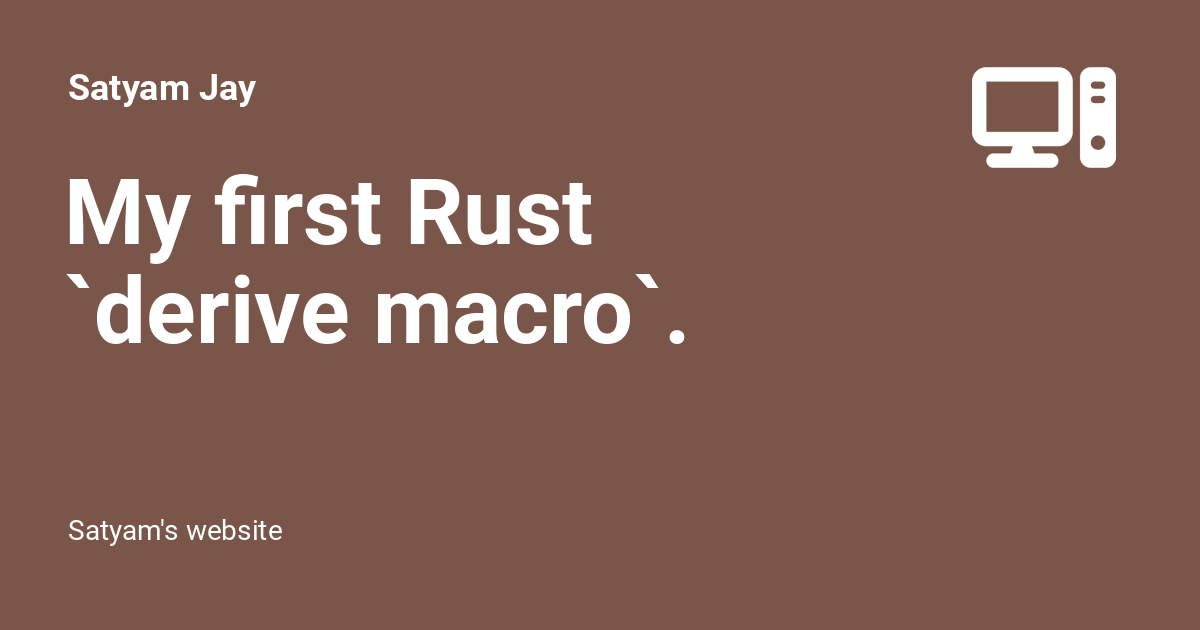
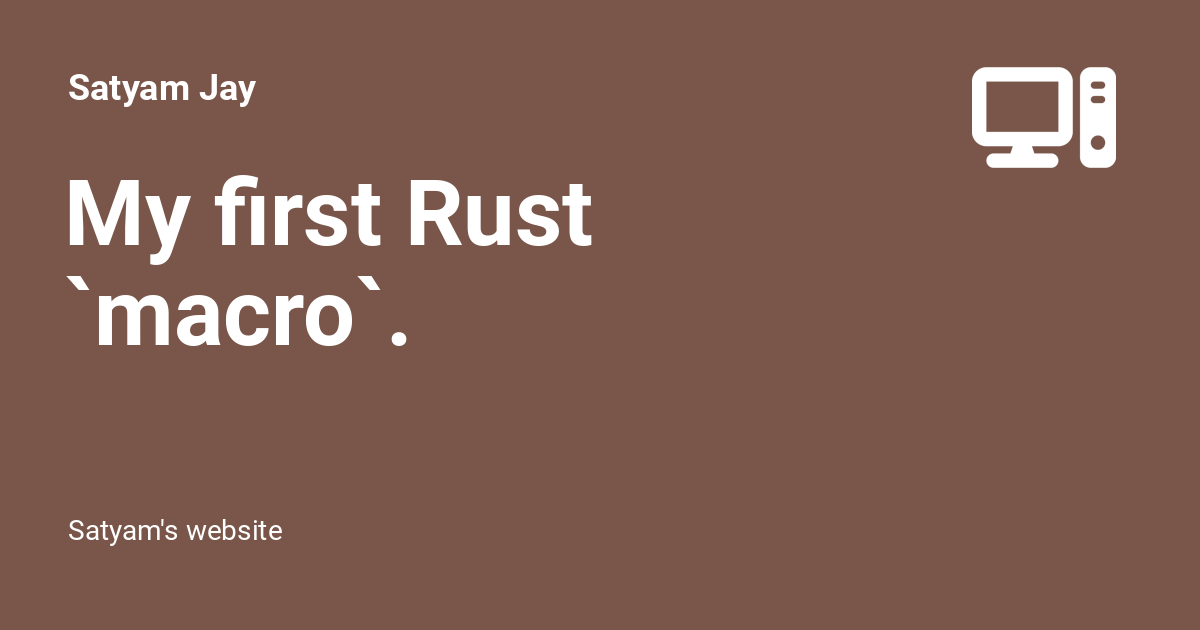
Deployed 5fad5bb with MkDocs version: 1.6.1

diff --git a/blog/2024/12/21/my-first-rust-macro/index.html b/blog/2024/12/21/my-first-rust-macro/index.html
@@ -10,7 +10,7 @@
       
       
       
-        <link rel="canonical" href="https://satyamjay-iitd.github.io/blog/2024/12/21/my-first-rust-derive-macro/">
+        <link rel="canonical" href="https://satyamjay-iitd.github.io/blog/2024/12/21/my-first-rust-macro/">
       
       
         <link rel="prev" href="../../13/how-to-measure-latency-in-data-streaming-systems/">
@@ -25,7 +25,7 @@
     
     
       
-        <title>My first Rust derive macro. - Satyam Jay</title>
+        <title>My first Rust macro. - Satyam Jay</title>
       
     
     
@@ -66,7 +66,7 @@
       
         <meta  property="og:type"  content="website" >
       
-        <meta  property="og:title"  content="My first Rust `derive macro`. - Satyam Jay" >
+        <meta  property="og:title"  content="My first Rust `macro`. - Satyam Jay" >
       
         <meta  property="og:description"  content="Satyam's website" >
       
@@ -78,11 +78,11 @@
       
         <meta  property="og:image:height"  content="630" >
       
-        <meta  property="og:url"  content="https://satyamjay-iitd.github.io/blog/2024/12/21/my-first-rust-derive-macro/" >
+        <meta  property="og:url"  content="https://satyamjay-iitd.github.io/blog/2024/12/21/my-first-rust-macro/" >
       
         <meta  name="twitter:card"  content="summary_large_image" >
       
-        <meta  name="twitter:title"  content="My first Rust `derive macro`. - Satyam Jay" >
+        <meta  name="twitter:title"  content="My first Rust `macro`. - Satyam Jay" >
       
         <meta  name="twitter:description"  content="Satyam's website" >
       
@@ -109,7 +109,7 @@
     <div data-md-component="skip">
       
         
-        <a href="#my-first-rust-derive-macro" class="md-skip">
+        <a href="#my-first-rust-macro" class="md-skip">
           Skip to content
         </a>
       
@@ -143,7 +143,7 @@
         <div class="md-header__topic" data-md-component="header-topic">
           <span class="md-ellipsis">
             
-              My first Rust derive macro.
+              My first Rust macro.
             
           </span>
         </div>
@@ -872,7 +872,7 @@
         
 
 
-<h1 id="my-first-rust-derive-macro">My first Rust <code>derive macro</code>.</h1>
+<h1 id="my-first-rust-macro">My first Rust <code>macro</code>.</h1>
 <!-- more -->
 <h2 id="background">Background</h2>
 <p>I am new to Rust programming, and currently working on my first large rust project.

diff --git a/blog/archive/2024/index.html b/blog/archive/2024/index.html
@@ -534,9 +534,9 @@
     <ul class="md-nav__list" data-md-component="toc" data-md-scrollfix>
       
         <li class="md-nav__item">
-  <a href="#my-first-rust-derive-macro" class="md-nav__link">
+  <a href="#my-first-rust-macro" class="md-nav__link">
     <span class="md-ellipsis">
-      My first Rust derive macro.
+      My first Rust macro.
     </span>
   </a>
   
@@ -846,11 +846,11 @@
     </div>
   </header>
   <div class="md-post__content md-typeset">
-    <h2 id="my-first-rust-derive-macro"><a class="toclink" href="../../2024/12/21/my-first-rust-derive-macro/">My first Rust <code>derive macro</code>.</a></h2>
+    <h2 id="my-first-rust-macro"><a class="toclink" href="../../2024/12/21/my-first-rust-macro/">My first Rust <code>macro</code>.</a></h2>
 
     
       <nav class="md-post__action">
-        <a href="../../2024/12/21/my-first-rust-derive-macro/">
+        <a href="../../2024/12/21/my-first-rust-macro/">
           Continue reading
         </a>
       </nav>

diff --git a/blog/category/dev-diary/index.html b/blog/category/dev-diary/index.html
@@ -633,9 +633,9 @@
     <ul class="md-nav__list" data-md-component="toc" data-md-scrollfix>
       
         <li class="md-nav__item">
-  <a href="#my-first-rust-derive-macro" class="md-nav__link">
+  <a href="#my-first-rust-macro" class="md-nav__link">
     <span class="md-ellipsis">
-      My first Rust derive macro.
+      My first Rust macro.
     </span>
   </a>
   
@@ -821,11 +821,11 @@
     </div>
   </header>
   <div class="md-post__content md-typeset">
-    <h2 id="my-first-rust-derive-macro"><a class="toclink" href="../../2024/12/21/my-first-rust-derive-macro/">My first Rust <code>derive macro</code>.</a></h2>
+    <h2 id="my-first-rust-macro"><a class="toclink" href="../../2024/12/21/my-first-rust-macro/">My first Rust <code>macro</code>.</a></h2>
 
     
       <nav class="md-post__action">
-        <a href="../../2024/12/21/my-first-rust-derive-macro/">
+        <a href="../../2024/12/21/my-first-rust-macro/">
           Continue reading
         </a>
       </nav>

diff --git a/blog/index.html b/blog/index.html
@@ -468,9 +468,9 @@
     <ul class="md-nav__list" data-md-component="toc" data-md-scrollfix>
       
         <li class="md-nav__item">
-  <a href="#my-first-rust-derive-macro" class="md-nav__link">
+  <a href="#my-first-rust-macro" class="md-nav__link">
     <span class="md-ellipsis">
-      My first Rust derive macro.
+      My first Rust macro.
     </span>
   </a>
   
@@ -847,11 +847,11 @@
     </div>
   </header>
   <div class="md-post__content md-typeset">
-    <h2 id="my-first-rust-derive-macro"><a class="toclink" href="2024/12/21/my-first-rust-derive-macro/">My first Rust <code>derive macro</code>.</a></h2>
+    <h2 id="my-first-rust-macro"><a class="toclink" href="2024/12/21/my-first-rust-macro/">My first Rust <code>macro</code>.</a></h2>
 
     
       <nav class="md-post__action">
-        <a href="2024/12/21/my-first-rust-derive-macro/">
+        <a href="2024/12/21/my-first-rust-macro/">
           Continue reading
         </a>
       </nav>

diff --git a/blog/2024/12/13/how-to-measure-latency-in-data-streaming-systems/index.html b/blog/2024/12/13/how-to-measure-latency-in-data-streaming-systems/index.html
@@ -16,7 +16,7 @@
         <link rel="prev" href="../../09/reading-list-research-papers/">
       
       
-        <link rel="next" href="../../21/my-first-rust-derive-macro/">
+        <link rel="next" href="../../21/my-first-rust-macro/">
       
       
         <link rel="alternate" type="application/rss+xml" title="RSS feed" href="../../../../../feed_rss_created.xml">
